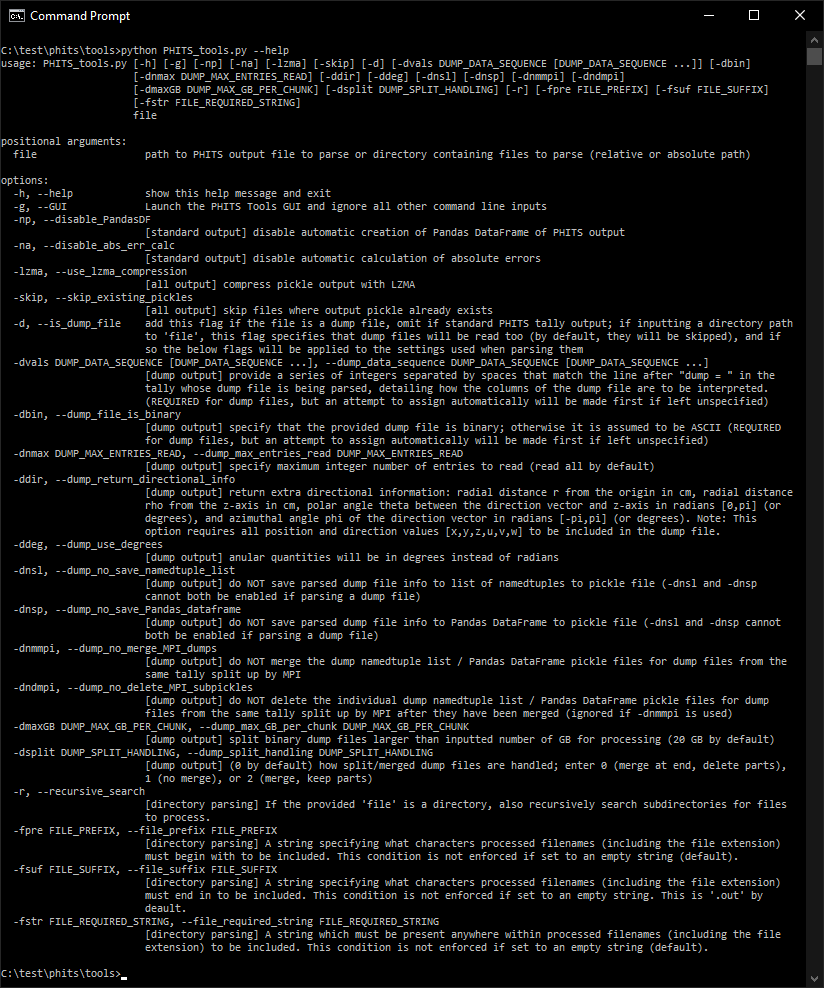
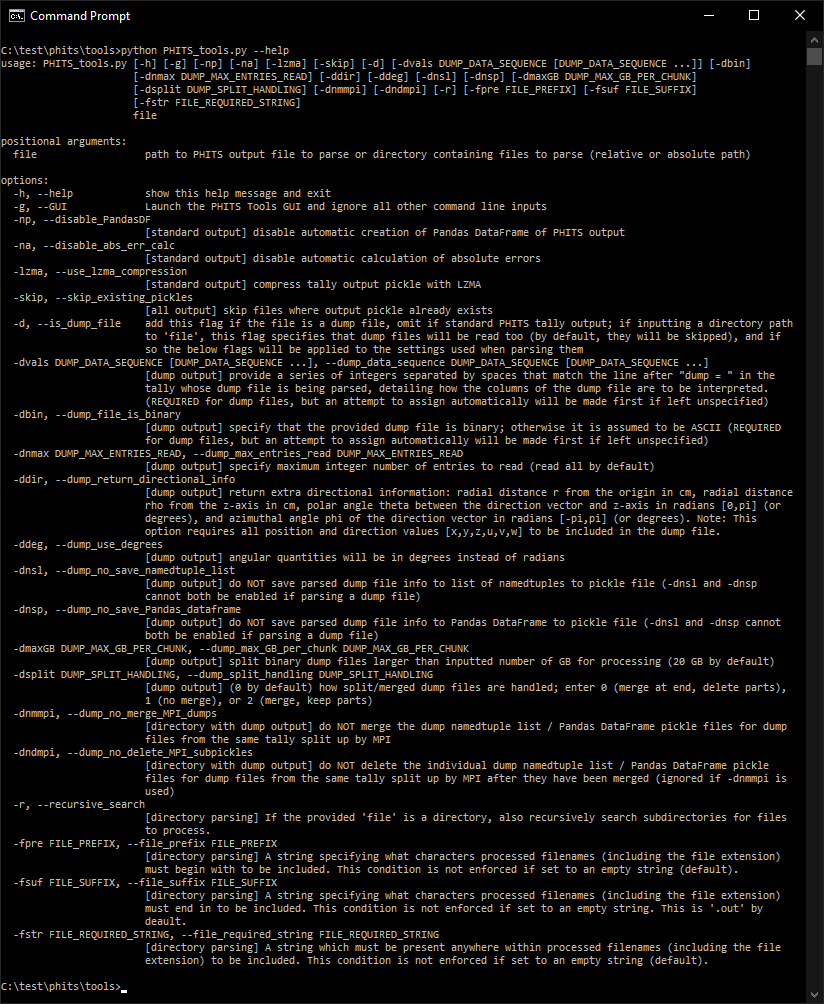
added CLI option info to docs

diff --git a/docs/index.html b/docs/index.html
@@ -43,7 +43,8 @@ which are listed in the next section below, or any of its other functions docume
 <li>This module can be ran on the command line with the individual PHITS output file to be parsed (or a directory
 containing multiple files to be parsed) as the required argument.
 Execute <code>python PHITS_tools.py --help</code> to see all of the different options that can be used with this module
-to parse standard or dump PHITS output files (individually and directories containing them) via the CLI.</li>
+to parse standard or dump PHITS output files (individually and directories containing them) via the CLI.
+How the CLI options explicity translate to the functions documented here is covered further below.</li>
 </ul>
 </li>
 <li>As a <strong>graphical user interface (GUI)</strong><ul>
@@ -120,6 +121,47 @@ functions return the data objects they produce for your own further analyses.</p
 <li><code><a title="PHITS_tools.build_tally_Pandas_dataframe" href="#PHITS_tools.build_tally_Pandas_dataframe">build_tally_Pandas_dataframe()</a></code>
 : make Pandas dataframe from the main results NumPy array and the metadata</li>
 </ul>
+<h3 id="cli-options"><strong>CLI options</strong></h3>
+<p>Essentially, the CLI serves to interface with the core three functions of PHITS Tools: <code><a title="PHITS_tools.parse_tally_output_file" href="#PHITS_tools.parse_tally_output_file">parse_tally_output_file()</a></code>,
+<code><a title="PHITS_tools.parse_tally_dump_file" href="#PHITS_tools.parse_tally_dump_file">parse_tally_dump_file()</a></code>, and <code><a title="PHITS_tools.parse_all_tally_output_in_dir" href="#PHITS_tools.parse_all_tally_output_in_dir">parse_all_tally_output_in_dir()</a></code>.
+The required <code>file</code> argument is checked to see if it is a directory or a file, and, if the latter, whether the <code>-d</code>
+option is used denoting a dump output file, otherwise defaulting to assuming it is a PHITS standard tally output file;
+then <code>file</code> and the relevant settings are sent to the corresponding main function.
+Explicitly, inclusion of the various CLI options have the following effects on the main functions' arguments and settings:</p>
+<ul>
+<li>Affecting all functions<ul>
+<li><code>-skip</code> sets <code>prefer_reading_existing_pickle = True</code> (<code>False</code> if excluded)</li>
+</ul>
+</li>
+<li><code><a title="PHITS_tools.parse_tally_output_file" href="#PHITS_tools.parse_tally_output_file">parse_tally_output_file()</a></code> (and passed to it via <code><a title="PHITS_tools.parse_all_tally_output_in_dir" href="#PHITS_tools.parse_all_tally_output_in_dir">parse_all_tally_output_in_dir()</a></code>)<ul>
+<li><code>-np</code> sets <code>make_PandasDF = False</code> (<code>True</code> if excluded)</li>
+<li><code>-na</code> sets <code>calculate_absolute_errors = False</code> (<code>True</code> if excluded)</li>
+<li><code>-lzma</code> sets <code>compress_pickle_with_lzma = True</code> (<code>False</code> if excluded)</li>
+</ul>
+</li>
+<li><code><a title="PHITS_tools.parse_tally_dump_file" href="#PHITS_tools.parse_tally_dump_file">parse_tally_dump_file()</a></code> (and passed to it via <code><a title="PHITS_tools.parse_all_tally_output_in_dir" href="#PHITS_tools.parse_all_tally_output_in_dir">parse_all_tally_output_in_dir()</a></code>)<ul>
+<li><code>-dvals</code> passes the provided sequence of values to <code>dump_data_sequence</code> (<code>None</code> if excluded)</li>
+<li><code>-dbin</code> specifies that the file is binary (<code>dump_data_number=len(dump_data_sequence)</code> and <em>is positive</em>)</li>
+<li><code>-dnmax</code> passes its value to <code>max_entries_read</code> (<code>None</code> if excluded)</li>
+<li><code>-ddir</code> sets <code>return_directional_info = True</code> (<code>False</code> if excluded)</li>
+<li><code>-ddeg</code> sets <code>use_degrees = True</code> (<code>False</code> if excluded)</li>
+<li><code>-dnsl</code> sets <code>save_namedtuple_list = False</code> (<code>True</code> if excluded)</li>
+<li><code>-dnsp</code> sets <code>save_Pandas_dataframe = False</code> (<code>True</code> if excluded)</li>
+<li><code>-dmaxGB</code> passes its value to <code>split_binary_dumps_over_X_GB</code> (<code>20</code> GB if excluded)</li>
+<li><code>-dsplit</code> passes its value to <code>merge_split_dump_handling</code> (<code>0</code> if excluded)</li>
+</ul>
+</li>
+<li><code><a title="PHITS_tools.parse_all_tally_output_in_dir" href="#PHITS_tools.parse_all_tally_output_in_dir">parse_all_tally_output_in_dir()</a></code> exclusively<ul>
+<li><code>-r</code> sets <code>include_subdirectories = True</code> (<code>False</code> if excluded)</li>
+<li><code>-fpre</code> passes its value to <code>output_file_prefix</code> (<code>''</code> if excluded)</li>
+<li><code>-fsuf</code> passes its value to <code>output_file_suffix</code> (<code>'.out'</code> if excluded)</li>
+<li><code>-fstr</code> passes its value to <code>output_file_required_string</code> (<code>''</code> if excluded)</li>
+<li><code>-d</code> sets <code>include_dump_files = True</code> (<code>False</code> if excluded)</li>
+<li><code>-dnmmpi</code> sets <code>dump_merge_MPI_subdumps = False</code> (<code>True</code> if excluded)</li>
+<li><code>-dndmpi</code> sets <code>dump_delete_MPI_subdumps_post_merge = False</code> (<code>True</code> if excluded)</li>
+</ul>
+</li>
+</ul>
 <details class="source">
 <summary>
 <span>Expand source code</span>
@@ -150,6 +192,7 @@ There are three main ways one can use this Python module:
           containing multiple files to be parsed) as the required argument.
           Execute `python PHITS_tools.py --help` to see all of the different options that can be used with this module
           to parse standard or dump PHITS output files (individually and directories containing them) via the CLI.
+          How the CLI options explicity translate to the functions documented here is covered further below.
  3. As a **graphical user interface (GUI)**
       - When the module is executed without any additional arguments, `python PHITS_tools.py`, (or with the `--GUI` or `-g` flag in the CLI)
           a GUI will be launched to step you through selecting what &#34;mode&#34; you would like to run PHITS Tools in (`STANDARD`, `DUMP`, or `DIRECTORY`),
@@ -196,6 +239,42 @@ functions return the data objects they produce for your own further analyses.
 - `data_row_to_num_list`            : extract numeric values from a line in the tally content section
 - `calculate_tally_absolute_errors` : calculate absolute uncertainties from read values and relative errors
 - `build_tally_Pandas_dataframe`    : make Pandas dataframe from the main results NumPy array and the metadata
+
+
+### **CLI options**
+
+Essentially, the CLI serves to interface with the core three functions of PHITS Tools: `parse_tally_output_file`,
+ `parse_tally_dump_file`, and `parse_all_tally_output_in_dir`. 
+ The required `file` argument is checked to see if it is a directory or a file, and, if the latter, whether the `-d` 
+ option is used denoting a dump output file, otherwise defaulting to assuming it is a PHITS standard tally output file; 
+ then `file` and the relevant settings are sent to the corresponding main function. 
+ Explicitly, inclusion of the various CLI options have the following effects on the main functions&#39; arguments and settings:
+
+- Affecting all functions
+      - `-skip` sets `prefer_reading_existing_pickle = True` (`False` if excluded)
+- `parse_tally_output_file` (and passed to it via `parse_all_tally_output_in_dir`)
+      - `-np` sets `make_PandasDF = False` (`True` if excluded)
+      - `-na` sets `calculate_absolute_errors = False` (`True` if excluded)
+      - `-lzma` sets `compress_pickle_with_lzma = True` (`False` if excluded)
+- `parse_tally_dump_file` (and passed to it via `parse_all_tally_output_in_dir`)
+      - `-dvals` passes the provided sequence of values to `dump_data_sequence` (`None` if excluded)
+      - `-dbin` specifies that the file is binary (`dump_data_number=len(dump_data_sequence)` and *is positive*)
+      - `-dnmax` passes its value to `max_entries_read` (`None` if excluded)
+      - `-ddir` sets `return_directional_info = True` (`False` if excluded)
+      - `-ddeg` sets `use_degrees = True` (`False` if excluded)
+      - `-dnsl` sets `save_namedtuple_list = False` (`True` if excluded)
+      - `-dnsp` sets `save_Pandas_dataframe = False` (`True` if excluded)
+      - `-dmaxGB` passes its value to `split_binary_dumps_over_X_GB` (`20` GB if excluded)
+      - `-dsplit` passes its value to `merge_split_dump_handling` (`0` if excluded)
+- `parse_all_tally_output_in_dir` exclusively
+      - `-r` sets `include_subdirectories = True` (`False` if excluded)
+      - `-fpre` passes its value to `output_file_prefix` (`&#39;&#39;` if excluded)
+      - `-fsuf` passes its value to `output_file_suffix` (`&#39;.out&#39;` if excluded)
+      - `-fstr` passes its value to `output_file_required_string` (`&#39;&#39;` if excluded)
+      - `-d` sets `include_dump_files = True` (`False` if excluded)
+      - `-dnmmpi` sets `dump_merge_MPI_subdumps = False` (`True` if excluded)
+      - `-dndmpi` sets `dump_delete_MPI_subdumps_post_merge = False` (`True` if excluded)
+
 
 &#39;&#39;&#39;
 &#39;&#39;&#39;
@@ -710,9 +789,9 @@ def parse_tally_dump_file(path_to_dump_file, dump_data_number=None , dump_data_s
         - **`merge_split_dump_handling`** = (optional, D=`0`) For instances where binary dump files are to be split, 
                 described above for `split_binary_dumps_over_X_GB` and the the note below&amp;Dagger;, input one of the following 
                 numbers to determine what will happen to the intermediate pickle files created from each split chunk:  
-                         - `0` = Merge the intermediate pickle files (with `merge_dump_file_pickles()`), and once successful delete them.  
-                         - `1` = Do not merge the intermediate pickle files.  
-                         - `2` = Merge the intermediate pickle files but do not delete them afterward.
+           - `0` = Merge the intermediate pickle files (via `merge_dump_file_pickles()`), then, if successful, delete them.  
+           - `1` = Do not merge the intermediate pickle files.  
+           - `2` = Merge the intermediate pickle files but do not delete them afterward.
     
     Outputs:
         - **`dump_data_list`** = List of length equal to the number of records contained in the file. Each entry in the list
@@ -1173,9 +1252,9 @@ def parse_all_tally_output_in_dir(tally_output_dirpath, output_file_suffix = &#3
        - **`merge_split_dump_handling`** = (optional, D=`0`) For instances where binary dump files are to be split, 
                as determined by the `split_binary_dumps_over_X_GB` setting, input one of the following 
                numbers to determine what will happen to the intermediate pickle files created from each split chunk:  
-                       - `0` = Merge the intermediate pickle files (with `merge_dump_file_pickles()`), and once successful delete them.  
-                       - `1` = Do not merge the intermediate pickle files.  
-                       - `2` = Merge the intermediate pickle files but do not delete them afterward.
+           - `0` = Merge the intermediate pickle files (via `merge_dump_file_pickles()`), then, if successful, delete them.  
+           - `1` = Do not merge the intermediate pickle files.  
+           - `2` = Merge the intermediate pickle files but do not delete them afterward.
        - **`dump_merge_MPI_subdumps`** = (optional, D=`True`) Boolean designating whether the pickled namedtuple lists and/or
                Pandas DataFrames for all &#34;sub-dumps&#34; from an MPI run of PHITS should be merged into single namedtuple 
                list and/or Pandas DataFrame pickle file(s) (with `merge_dump_file_pickles()`). When a dump file is written in an MPI execution of PHITS, 
@@ -4136,7 +4215,7 @@ if run_with_CLI_inputs:
     parser.add_argument(&#34;-g&#34;, &#34;--GUI&#34;, help=&#34;Launch the PHITS Tools GUI and ignore all other command line inputs&#34;, action=&#34;store_true&#34;)
     parser.add_argument(&#34;-np&#34;, &#34;--disable_PandasDF&#34;, help=&#34;[standard output] disable automatic creation of Pandas DataFrame of PHITS output&#34;, action=&#34;store_true&#34;)
     parser.add_argument(&#34;-na&#34;, &#34;--disable_abs_err_calc&#34;, help=&#34;[standard output] disable automatic calculation of absolute errors&#34;, action=&#34;store_true&#34;)
-    parser.add_argument(&#34;-lzma&#34;, &#34;--use_lzma_compression&#34;, help=&#34;[all output] compress pickle output with LZMA&#34;, action=&#34;store_true&#34;)
+    parser.add_argument(&#34;-lzma&#34;, &#34;--use_lzma_compression&#34;, help=&#34;[standard output] compress tally output pickle with LZMA&#34;, action=&#34;store_true&#34;)
     parser.add_argument(&#34;-skip&#34;, &#34;--skip_existing_pickles&#34;, help=&#34;[all output] skip files where output pickle already exists&#34;, action=&#34;store_true&#34;)
     # Not going to add below option. Why would you ever run this in CLI if not trying to generate the pickle file?
     # parser.add_argument(&#34;-ns&#34;, &#34;--disable_saving_pickle&#34;, help=&#34;disable saving of pickle of of PHITS output&#34;, action=&#34;store_true&#34;)
@@ -4146,14 +4225,14 @@ if run_with_CLI_inputs:
     parser.add_argument(&#34;-dbin&#34;, &#34;--dump_file_is_binary&#34;, action=&#34;store_true&#34;, help=&#34;[dump output] specify that the provided dump file is binary; otherwise it is assumed to be ASCII (REQUIRED for dump files, but an attempt to assign automatically will be made first if left unspecified)&#34;)
     parser.add_argument(&#34;-dnmax&#34;, &#34;--dump_max_entries_read&#34;, type=int, help=&#34;[dump output] specify maximum integer number of entries to read (read all by default)&#34;)
     parser.add_argument(&#34;-ddir&#34;, &#34;--dump_return_directional_info&#34;, action=&#34;store_true&#34;, help=&#34;[dump output] return extra directional information: radial distance r from the origin in cm, radial distance rho from the z-axis in cm, polar angle theta between the direction vector and z-axis in radians [0,pi] (or degrees), and azimuthal angle phi of the direction vector in radians [-pi,pi] (or degrees). Note: This option requires all position and direction values [x,y,z,u,v,w] to be included in the dump file.&#34;)
-    parser.add_argument(&#34;-ddeg&#34;, &#34;--dump_use_degrees&#34;, action=&#34;store_true&#34;, help=&#34;[dump output] anular quantities will be in degrees instead of radians&#34;)
+    parser.add_argument(&#34;-ddeg&#34;, &#34;--dump_use_degrees&#34;, action=&#34;store_true&#34;, help=&#34;[dump output] angular quantities will be in degrees instead of radians&#34;)
     parser.add_argument(&#34;-dnsl&#34;, &#34;--dump_no_save_namedtuple_list&#34;, action=&#34;store_true&#34;, help=&#34;[dump output] do NOT save parsed dump file info to list of namedtuples to pickle file (-dnsl and -dnsp cannot both be enabled if parsing a dump file)&#34;)
     parser.add_argument(&#34;-dnsp&#34;, &#34;--dump_no_save_Pandas_dataframe&#34;, action=&#34;store_true&#34;, help=&#34;[dump output] do NOT save parsed dump file info to Pandas DataFrame to pickle file (-dnsl and -dnsp cannot both be enabled if parsing a dump file)&#34;)
-    parser.add_argument(&#34;-dnmmpi&#34;, &#34;--dump_no_merge_MPI_dumps&#34;, action=&#34;store_true&#34;, help=&#34;[dump output] do NOT merge the dump namedtuple list / Pandas DataFrame pickle files for dump files from the same tally split up by MPI&#34;)
-    parser.add_argument(&#34;-dndmpi&#34;, &#34;--dump_no_delete_MPI_subpickles&#34;, action=&#34;store_true&#34;, help=&#34;[dump output] do NOT delete the individual dump namedtuple list / Pandas DataFrame pickle files for dump files from the same tally split up by MPI after they have been merged (ignored if -dnmmpi is used)&#34;)
     parser.add_argument(&#34;-dmaxGB&#34;, &#34;--dump_max_GB_per_chunk&#34;, type=float, default=20, help=&#34;[dump output] split binary dump files larger than inputted number of GB for processing (20 GB by default)&#34;)
     parser.add_argument(&#34;-dsplit&#34;, &#34;--dump_split_handling&#34;, type=int, default=0, help=&#34;[dump output] (0 by default) how split/merged dump files are handled; enter 0 (merge at end, delete parts), 1 (no merge), or 2 (merge, keep parts)&#34;)
     # Flags for processing files in a directory
+    parser.add_argument(&#34;-dnmmpi&#34;, &#34;--dump_no_merge_MPI_dumps&#34;, action=&#34;store_true&#34;, help=&#34;[directory with dump output] do NOT merge the dump namedtuple list / Pandas DataFrame pickle files for dump files from the same tally split up by MPI&#34;)
+    parser.add_argument(&#34;-dndmpi&#34;, &#34;--dump_no_delete_MPI_subpickles&#34;, action=&#34;store_true&#34;, help=&#34;[directory with dump output] do NOT delete the individual dump namedtuple list / Pandas DataFrame pickle files for dump files from the same tally split up by MPI after they have been merged (ignored if -dnmmpi is used)&#34;)
     parser.add_argument(&#34;-r&#34;, &#34;--recursive_search&#34;, action=&#34;store_true&#34;, help=&#34;[directory parsing] If the provided &#39;file&#39; is a directory, also recursively search subdirectories for files to process.&#34;)
     parser.add_argument(&#34;-fpre&#34;, &#34;--file_prefix&#34;, default=&#39;&#39;, help=&#34;[directory parsing] A string specifying what characters processed filenames (including the file extension) must begin with to be included. This condition is not enforced if set to an empty string (default).&#34;)
     parser.add_argument(&#34;-fsuf&#34;, &#34;--file_suffix&#34;, default=&#39;.out&#39;, help=&#34;[directory parsing] A string specifying what characters processed filenames (including the file extension) must end in to be included. This condition is not enforced if set to an empty string. This is &#39;.out&#39; by deault.&#34;)
@@ -5443,10 +5522,15 @@ can then be accessed via the <a href="https://pandas.pydata.org/docs/reference/a
 which a <em>binary</em> dump file will be split into chunks of this size for processing&Dagger;.</li>
 <li><strong><code>merge_split_dump_handling</code></strong> = (optional, D=<code>0</code>) For instances where binary dump files are to be split,
 described above for <code>split_binary_dumps_over_X_GB</code> and the the note below&Dagger;, input one of the following
-numbers to determine what will happen to the intermediate pickle files created from each split chunk:<br>
-- <code>0</code> = Merge the intermediate pickle files (with <code><a title="PHITS_tools.merge_dump_file_pickles" href="#PHITS_tools.merge_dump_file_pickles">merge_dump_file_pickles()</a></code>), and once successful delete them.<br>
-- <code>1</code> = Do not merge the intermediate pickle files.<br>
-- <code>2</code> = Merge the intermediate pickle files but do not delete them afterward.</li>
+numbers to determine what will happen to the intermediate pickle files created from each split chunk:
+<ul>
+<li><code>0</code> = Merge the intermediate pickle files (via <code><a title="PHITS_tools.merge_dump_file_pickles" href="#PHITS_tools.merge_dump_file_pickles">merge_dump_file_pickles()</a></code>), then, if successful, delete them.
+</li>
+<li><code>1</code> = Do not merge the intermediate pickle files.
+</li>
+<li><code>2</code> = Merge the intermediate pickle files but do not delete them afterward.</li>
+</ul>
+</li>
 </ul>
 <h2 id="outputs">Outputs</h2>
 <ul>
@@ -5554,9 +5638,9 @@ see the documentation within the following directory of your PHITS installation:
         - **`merge_split_dump_handling`** = (optional, D=`0`) For instances where binary dump files are to be split, 
                 described above for `split_binary_dumps_over_X_GB` and the the note below&amp;Dagger;, input one of the following 
                 numbers to determine what will happen to the intermediate pickle files created from each split chunk:  
-                         - `0` = Merge the intermediate pickle files (with `merge_dump_file_pickles()`), and once successful delete them.  
-                         - `1` = Do not merge the intermediate pickle files.  
-                         - `2` = Merge the intermediate pickle files but do not delete them afterward.
+           - `0` = Merge the intermediate pickle files (via `merge_dump_file_pickles()`), then, if successful, delete them.  
+           - `1` = Do not merge the intermediate pickle files.  
+           - `2` = Merge the intermediate pickle files but do not delete them afterward.
     
     Outputs:
         - **`dump_data_list`** = List of length equal to the number of records contained in the file. Each entry in the list
@@ -6015,10 +6099,15 @@ file (via Pandas .to_pickle()).</li>
 which a <em>binary</em> dump file will be split into chunks of this size for processing.</li>
 <li><strong><code>merge_split_dump_handling</code></strong> = (optional, D=<code>0</code>) For instances where binary dump files are to be split,
 as determined by the <code>split_binary_dumps_over_X_GB</code> setting, input one of the following
-numbers to determine what will happen to the intermediate pickle files created from each split chunk:<br>
-- <code>0</code> = Merge the intermediate pickle files (with <code><a title="PHITS_tools.merge_dump_file_pickles" href="#PHITS_tools.merge_dump_file_pickles">merge_dump_file_pickles()</a></code>), and once successful delete them.<br>
-- <code>1</code> = Do not merge the intermediate pickle files.<br>
-- <code>2</code> = Merge the intermediate pickle files but do not delete them afterward.</li>
+numbers to determine what will happen to the intermediate pickle files created from each split chunk:
+<ul>
+<li><code>0</code> = Merge the intermediate pickle files (via <code><a title="PHITS_tools.merge_dump_file_pickles" href="#PHITS_tools.merge_dump_file_pickles">merge_dump_file_pickles()</a></code>), then, if successful, delete them.
+</li>
+<li><code>1</code> = Do not merge the intermediate pickle files.
+</li>
+<li><code>2</code> = Merge the intermediate pickle files but do not delete them afterward.</li>
+</ul>
+</li>
 <li><strong><code>dump_merge_MPI_subdumps</code></strong> = (optional, D=<code>True</code>) Boolean designating whether the pickled namedtuple lists and/or
 Pandas DataFrames for all "sub-dumps" from an MPI run of PHITS should be merged into single namedtuple
 list and/or Pandas DataFrame pickle file(s) (with <code><a title="PHITS_tools.merge_dump_file_pickles" href="#PHITS_tools.merge_dump_file_pickles">merge_dump_file_pickles()</a></code>). When a dump file is written in an MPI execution of PHITS,
@@ -6169,9 +6258,9 @@ file paths to pickle files containing <code>tally_output</code> dictionary objec
        - **`merge_split_dump_handling`** = (optional, D=`0`) For instances where binary dump files are to be split, 
                as determined by the `split_binary_dumps_over_X_GB` setting, input one of the following 
                numbers to determine what will happen to the intermediate pickle files created from each split chunk:  
-                       - `0` = Merge the intermediate pickle files (with `merge_dump_file_pickles()`), and once successful delete them.  
-                       - `1` = Do not merge the intermediate pickle files.  
-                       - `2` = Merge the intermediate pickle files but do not delete them afterward.
+           - `0` = Merge the intermediate pickle files (via `merge_dump_file_pickles()`), then, if successful, delete them.  
+           - `1` = Do not merge the intermediate pickle files.  
+           - `2` = Merge the intermediate pickle files but do not delete them afterward.
        - **`dump_merge_MPI_subdumps`** = (optional, D=`True`) Boolean designating whether the pickled namedtuple lists and/or
                Pandas DataFrames for all &#34;sub-dumps&#34; from an MPI run of PHITS should be merged into single namedtuple 
                list and/or Pandas DataFrame pickle file(s) (with `merge_dump_file_pickles()`). When a dump file is written in an MPI execution of PHITS, 
@@ -9760,6 +9849,7 @@ note that tally_df.attrs returns values which are the same for all rows</li>
 <li><a href="#main-phits-output-parsing-functions">Main PHITS Output Parsing Functions</a></li>
 <li><a href="#general-purpose-functions">General Purpose Functions</a></li>
 <li><a href="#subfunctions-for-phits-output-parsing">Subfunctions for PHITS output parsing</a></li>
+<li><a href="#cli-options">CLI options</a></li>
 </ul>
 </div>
 <ul id="index">

diff --git a/PHITS_tools.py b/PHITS_tools.py
@@ -24,6 +24,7 @@ There are three main ways one can use this Python module:
           containing multiple files to be parsed) as the required argument.
           Execute `python PHITS_tools.py --help` to see all of the different options that can be used with this module
           to parse standard or dump PHITS output files (individually and directories containing them) via the CLI.
+          How the CLI options explicity translate to the functions documented here is covered further below.
  3. As a **graphical user interface (GUI)**
       - When the module is executed without any additional arguments, `python PHITS_tools.py`, (or with the `--GUI` or `-g` flag in the CLI)
           a GUI will be launched to step you through selecting what "mode" you would like to run PHITS Tools in (`STANDARD`, `DUMP`, or `DIRECTORY`),
@@ -70,6 +71,42 @@ functions return the data objects they produce for your own further analyses.
 - `data_row_to_num_list`            : extract numeric values from a line in the tally content section
 - `calculate_tally_absolute_errors` : calculate absolute uncertainties from read values and relative errors
 - `build_tally_Pandas_dataframe`    : make Pandas dataframe from the main results NumPy array and the metadata
+
+
+### **CLI options**
+
+Essentially, the CLI serves to interface with the core three functions of PHITS Tools: `parse_tally_output_file`,
+ `parse_tally_dump_file`, and `parse_all_tally_output_in_dir`. 
+ The required `file` argument is checked to see if it is a directory or a file, and, if the latter, whether the `-d` 
+ option is used denoting a dump output file, otherwise defaulting to assuming it is a PHITS standard tally output file; 
+ then `file` and the relevant settings are sent to the corresponding main function. 
+ Explicitly, inclusion of the various CLI options have the following effects on the main functions' arguments and settings:
+
+- Affecting all functions
+      - `-skip` sets `prefer_reading_existing_pickle = True` (`False` if excluded)
+- `parse_tally_output_file` (and passed to it via `parse_all_tally_output_in_dir`)
+      - `-np` sets `make_PandasDF = False` (`True` if excluded)
+      - `-na` sets `calculate_absolute_errors = False` (`True` if excluded)
+      - `-lzma` sets `compress_pickle_with_lzma = True` (`False` if excluded)
+- `parse_tally_dump_file` (and passed to it via `parse_all_tally_output_in_dir`)
+      - `-dvals` passes the provided sequence of values to `dump_data_sequence` (`None` if excluded)
+      - `-dbin` specifies that the file is binary (`dump_data_number=len(dump_data_sequence)` and *is positive*)
+      - `-dnmax` passes its value to `max_entries_read` (`None` if excluded)
+      - `-ddir` sets `return_directional_info = True` (`False` if excluded)
+      - `-ddeg` sets `use_degrees = True` (`False` if excluded)
+      - `-dnsl` sets `save_namedtuple_list = False` (`True` if excluded)
+      - `-dnsp` sets `save_Pandas_dataframe = False` (`True` if excluded)
+      - `-dmaxGB` passes its value to `split_binary_dumps_over_X_GB` (`20` GB if excluded)
+      - `-dsplit` passes its value to `merge_split_dump_handling` (`0` if excluded)
+- `parse_all_tally_output_in_dir` exclusively
+      - `-r` sets `include_subdirectories = True` (`False` if excluded)
+      - `-fpre` passes its value to `output_file_prefix` (`''` if excluded)
+      - `-fsuf` passes its value to `output_file_suffix` (`'.out'` if excluded)
+      - `-fstr` passes its value to `output_file_required_string` (`''` if excluded)
+      - `-d` sets `include_dump_files = True` (`False` if excluded)
+      - `-dnmmpi` sets `dump_merge_MPI_subdumps = False` (`True` if excluded)
+      - `-dndmpi` sets `dump_delete_MPI_subdumps_post_merge = False` (`True` if excluded)
+
 
 '''
 '''
@@ -584,9 +621,9 @@ def parse_tally_dump_file(path_to_dump_file, dump_data_number=None , dump_data_s
         - **`merge_split_dump_handling`** = (optional, D=`0`) For instances where binary dump files are to be split, 
                 described above for `split_binary_dumps_over_X_GB` and the the note below&Dagger;, input one of the following 
                 numbers to determine what will happen to the intermediate pickle files created from each split chunk:  
-                         - `0` = Merge the intermediate pickle files (with `merge_dump_file_pickles()`), and once successful delete them.  
-                         - `1` = Do not merge the intermediate pickle files.  
-                         - `2` = Merge the intermediate pickle files but do not delete them afterward.
+           - `0` = Merge the intermediate pickle files (via `merge_dump_file_pickles()`), then, if successful, delete them.  
+           - `1` = Do not merge the intermediate pickle files.  
+           - `2` = Merge the intermediate pickle files but do not delete them afterward.
     
     Outputs:
         - **`dump_data_list`** = List of length equal to the number of records contained in the file. Each entry in the list
@@ -1047,9 +1084,9 @@ def parse_all_tally_output_in_dir(tally_output_dirpath, output_file_suffix = '.o
        - **`merge_split_dump_handling`** = (optional, D=`0`) For instances where binary dump files are to be split, 
                as determined by the `split_binary_dumps_over_X_GB` setting, input one of the following 
                numbers to determine what will happen to the intermediate pickle files created from each split chunk:  
-                       - `0` = Merge the intermediate pickle files (with `merge_dump_file_pickles()`), and once successful delete them.  
-                       - `1` = Do not merge the intermediate pickle files.  
-                       - `2` = Merge the intermediate pickle files but do not delete them afterward.
+           - `0` = Merge the intermediate pickle files (via `merge_dump_file_pickles()`), then, if successful, delete them.  
+           - `1` = Do not merge the intermediate pickle files.  
+           - `2` = Merge the intermediate pickle files but do not delete them afterward.
        - **`dump_merge_MPI_subdumps`** = (optional, D=`True`) Boolean designating whether the pickled namedtuple lists and/or
                Pandas DataFrames for all "sub-dumps" from an MPI run of PHITS should be merged into single namedtuple 
                list and/or Pandas DataFrame pickle file(s) (with `merge_dump_file_pickles()`). When a dump file is written in an MPI execution of PHITS, 
@@ -4010,7 +4047,7 @@ if run_with_CLI_inputs:
     parser.add_argument("-g", "--GUI", help="Launch the PHITS Tools GUI and ignore all other command line inputs", action="store_true")
     parser.add_argument("-np", "--disable_PandasDF", help="[standard output] disable automatic creation of Pandas DataFrame of PHITS output", action="store_true")
     parser.add_argument("-na", "--disable_abs_err_calc", help="[standard output] disable automatic calculation of absolute errors", action="store_true")
-    parser.add_argument("-lzma", "--use_lzma_compression", help="[all output] compress pickle output with LZMA", action="store_true")
+    parser.add_argument("-lzma", "--use_lzma_compression", help="[standard output] compress tally output pickle with LZMA", action="store_true")
     parser.add_argument("-skip", "--skip_existing_pickles", help="[all output] skip files where output pickle already exists", action="store_true")
     # Not going to add below option. Why would you ever run this in CLI if not trying to generate the pickle file?
     # parser.add_argument("-ns", "--disable_saving_pickle", help="disable saving of pickle of of PHITS output", action="store_true")
@@ -4020,14 +4057,14 @@ if run_with_CLI_inputs:
     parser.add_argument("-dbin", "--dump_file_is_binary", action="store_true", help="[dump output] specify that the provided dump file is binary; otherwise it is assumed to be ASCII (REQUIRED for dump files, but an attempt to assign automatically will be made first if left unspecified)")
     parser.add_argument("-dnmax", "--dump_max_entries_read", type=int, help="[dump output] specify maximum integer number of entries to read (read all by default)")
     parser.add_argument("-ddir", "--dump_return_directional_info", action="store_true", help="[dump output] return extra directional information: radial distance r from the origin in cm, radial distance rho from the z-axis in cm, polar angle theta between the direction vector and z-axis in radians [0,pi] (or degrees), and azimuthal angle phi of the direction vector in radians [-pi,pi] (or degrees). Note: This option requires all position and direction values [x,y,z,u,v,w] to be included in the dump file.")
-    parser.add_argument("-ddeg", "--dump_use_degrees", action="store_true", help="[dump output] anular quantities will be in degrees instead of radians")
+    parser.add_argument("-ddeg", "--dump_use_degrees", action="store_true", help="[dump output] angular quantities will be in degrees instead of radians")
     parser.add_argument("-dnsl", "--dump_no_save_namedtuple_list", action="store_true", help="[dump output] do NOT save parsed dump file info to list of namedtuples to pickle file (-dnsl and -dnsp cannot both be enabled if parsing a dump file)")
     parser.add_argument("-dnsp", "--dump_no_save_Pandas_dataframe", action="store_true", help="[dump output] do NOT save parsed dump file info to Pandas DataFrame to pickle file (-dnsl and -dnsp cannot both be enabled if parsing a dump file)")
-    parser.add_argument("-dnmmpi", "--dump_no_merge_MPI_dumps", action="store_true", help="[dump output] do NOT merge the dump namedtuple list / Pandas DataFrame pickle files for dump files from the same tally split up by MPI")
-    parser.add_argument("-dndmpi", "--dump_no_delete_MPI_subpickles", action="store_true", help="[dump output] do NOT delete the individual dump namedtuple list / Pandas DataFrame pickle files for dump files from the same tally split up by MPI after they have been merged (ignored if -dnmmpi is used)")
     parser.add_argument("-dmaxGB", "--dump_max_GB_per_chunk", type=float, default=20, help="[dump output] split binary dump files larger than inputted number of GB for processing (20 GB by default)")
     parser.add_argument("-dsplit", "--dump_split_handling", type=int, default=0, help="[dump output] (0 by default) how split/merged dump files are handled; enter 0 (merge at end, delete parts), 1 (no merge), or 2 (merge, keep parts)")
     # Flags for processing files in a directory
+    parser.add_argument("-dnmmpi", "--dump_no_merge_MPI_dumps", action="store_true", help="[directory with dump output] do NOT merge the dump namedtuple list / Pandas DataFrame pickle files for dump files from the same tally split up by MPI")
+    parser.add_argument("-dndmpi", "--dump_no_delete_MPI_subpickles", action="store_true", help="[directory with dump output] do NOT delete the individual dump namedtuple list / Pandas DataFrame pickle files for dump files from the same tally split up by MPI after they have been merged (ignored if -dnmmpi is used)")
     parser.add_argument("-r", "--recursive_search", action="store_true", help="[directory parsing] If the provided 'file' is a directory, also recursively search subdirectories for files to process.")
     parser.add_argument("-fpre", "--file_prefix", default='', help="[directory parsing] A string specifying what characters processed filenames (including the file extension) must begin with to be included. This condition is not enforced if set to an empty string (default).")
     parser.add_argument("-fsuf", "--file_suffix", default='.out', help="[directory parsing] A string specifying what characters processed filenames (including the file extension) must end in to be included. This condition is not enforced if set to an empty string. This is '.out' by deault.")
